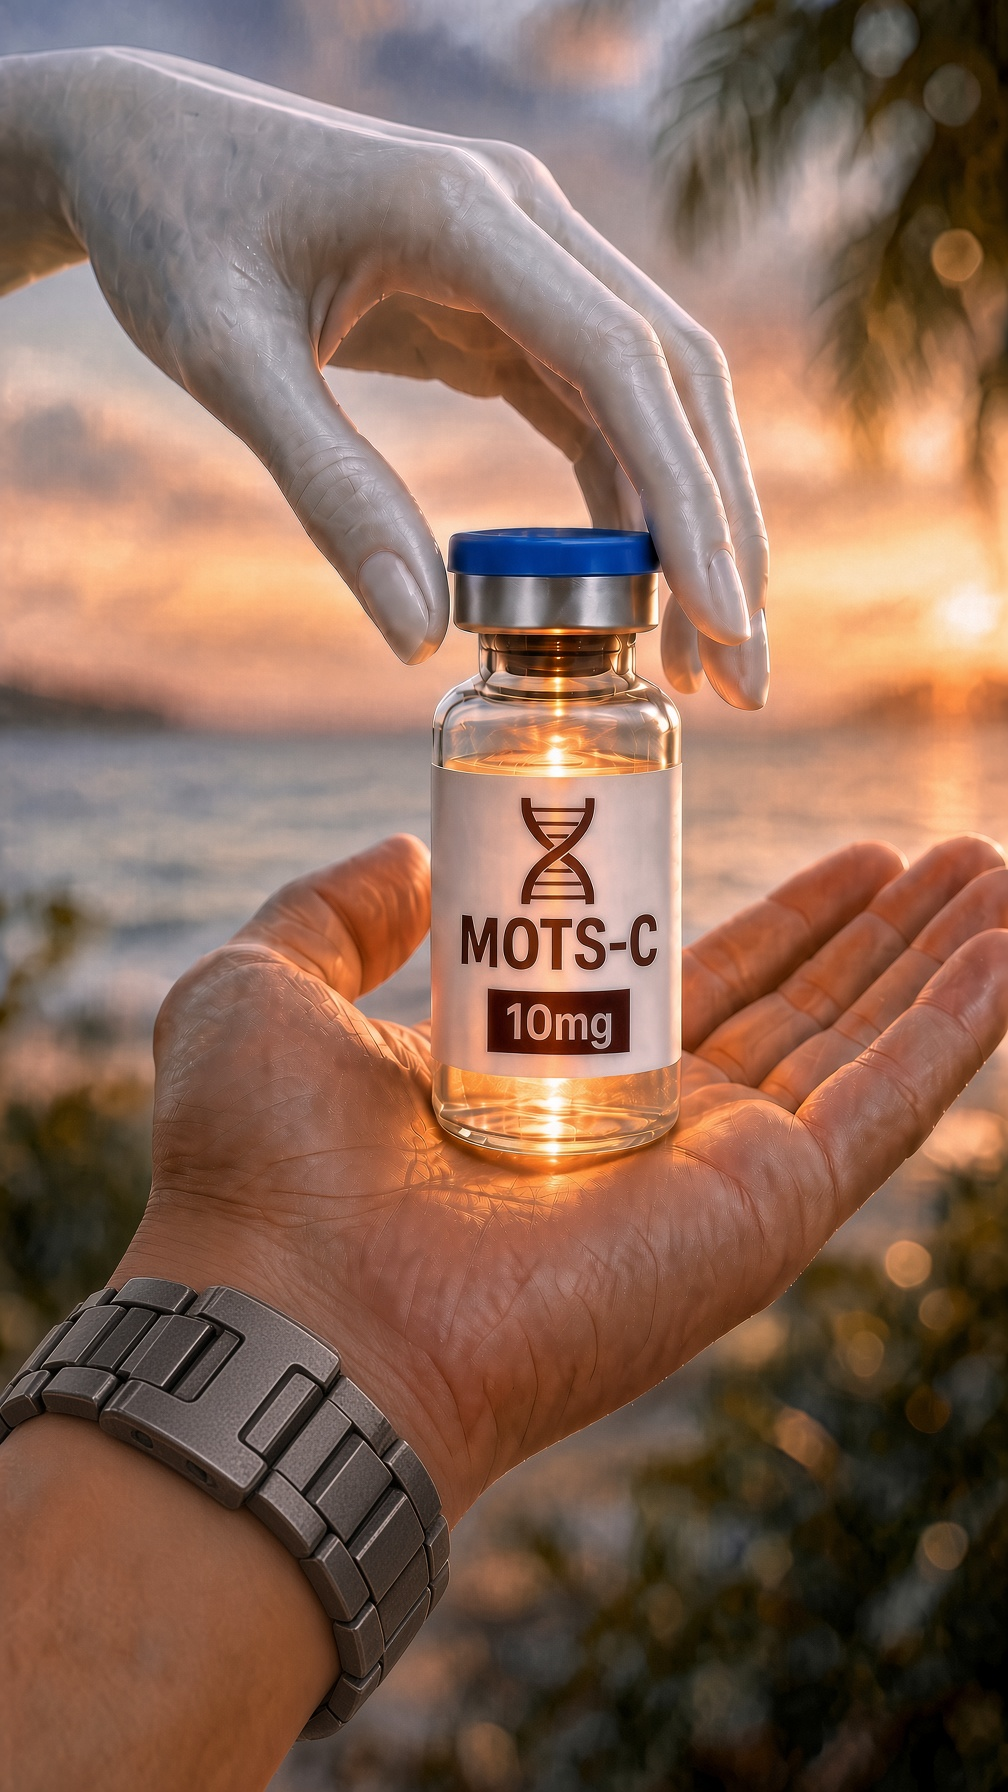
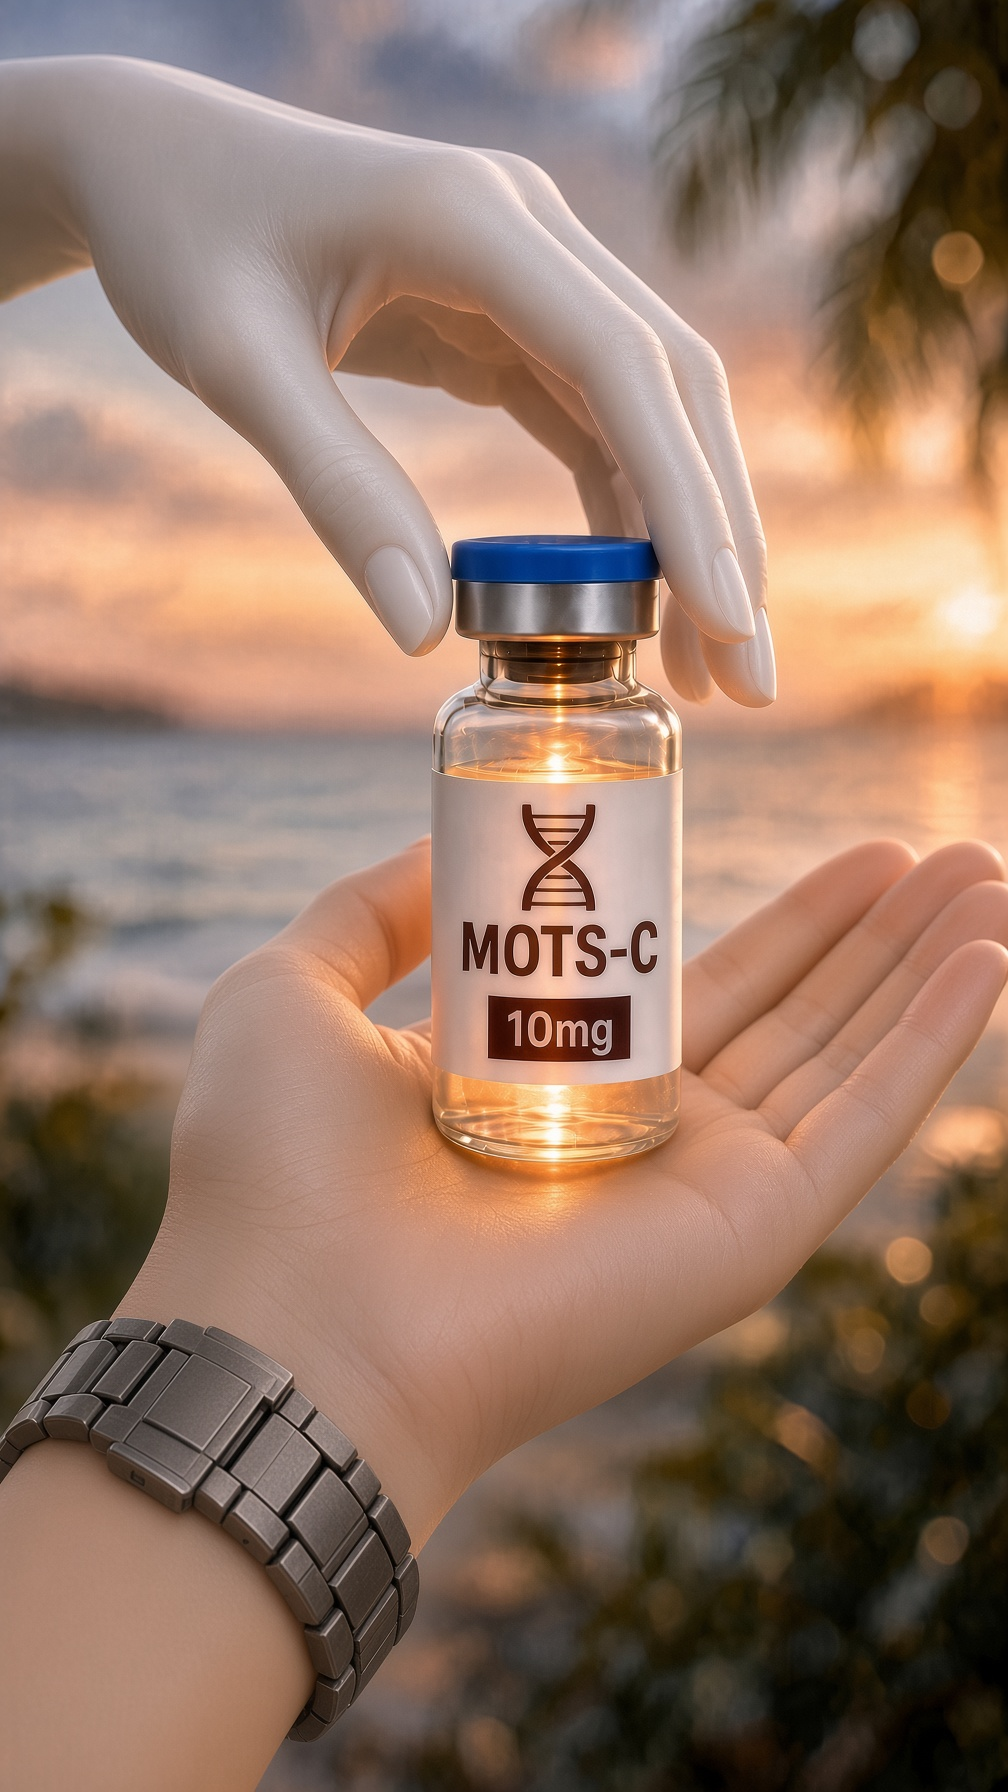
Update FILM-023 final keeper to Sal's latest handoff still.
Same repo path and picked_url. Drop the old edit takes from take_urls.
Do not regenerate or edit.

diff --git a/marketing/n8n-code-overlay-film023-024-final.js b/marketing/n8n-code-overlay-film023-024-final.js
@@ -27,7 +27,7 @@ var PICKED_024 =
   'https://raw.githubusercontent.com/PalmBeach-Vitality/store/cursor/film018-match-013-core-4c4b/marketing/stills/film024-recharge-source.jpg';
 
 var EDIT_023 =
-  'FINAL keeper: vial_handoff_23. Do not regenerate. Do not edit.';
+  'FINAL keeper: vial_handoff_23 (updated). Do not regenerate. Do not edit.';
 var EDIT_024 =
   'FINAL keeper: vial_recharge_24. Do not regenerate. Do not edit.';
 

diff --git a/marketing/scripts/overlay_film023_024_final.py b/marketing/scripts/overlay_film023_024_final.py
@@ -10,7 +10,7 @@ PICKED_024 = (
     "https://raw.githubusercontent.com/PalmBeach-Vitality/store/"
     "cursor/film018-match-013-core-4c4b/marketing/stills/film024-recharge-source.jpg"
 )
-EDIT_023 = "FINAL keeper: vial_handoff_23. Do not regenerate. Do not edit."
+EDIT_023 = "FINAL keeper: vial_handoff_23 (updated). Do not regenerate. Do not edit."
 EDIT_024 = "FINAL keeper: vial_recharge_24. Do not regenerate. Do not edit."
 
 

diff --git a/marketing/n8n-motsc-wrist-edit.md b/marketing/n8n-motsc-wrist-edit.md
@@ -475,9 +475,11 @@ Lock overlay `zIaZ78r1hCcMIz0y` exec **1657**, then archived. `edit_one_still` e
 
 Sal: these two Drive stills are **final**. Do not regenerate. Do not edit.
 
+FILM-023 keeper was updated again to Sal's latest handoff still (same repo path, new pixels).
+
 | still | Drive file | Drive id | repo |
 |---|---|---|---|
-| FILM-023 | `vial_handoff_23.jpg` | `1txVArsVTgZ7iflHIu1RKJRFWqoK2HkaS` | `marketing/stills/film023-handoff-source.jpg` |
+| FILM-023 | `vial_handoff_23.jpg` + latest upload | `1txVArsVTgZ7iflHIu1RKJRFWqoK2HkaS` | `marketing/stills/film023-handoff-source.jpg` |
 | FILM-024 | `vial_recharge_24.jpg` | `1Dq_XAU10Me4D7pXEqcraQacQRKqUxu0j` | `marketing/stills/film024-recharge-source.jpg` |
 
 Repo CSV `picked_url` + `times_used=1` so the factory will not re-pick them. `still_edit_prompt` = FINAL keeper. Does not rewrite `still_prompt`.
